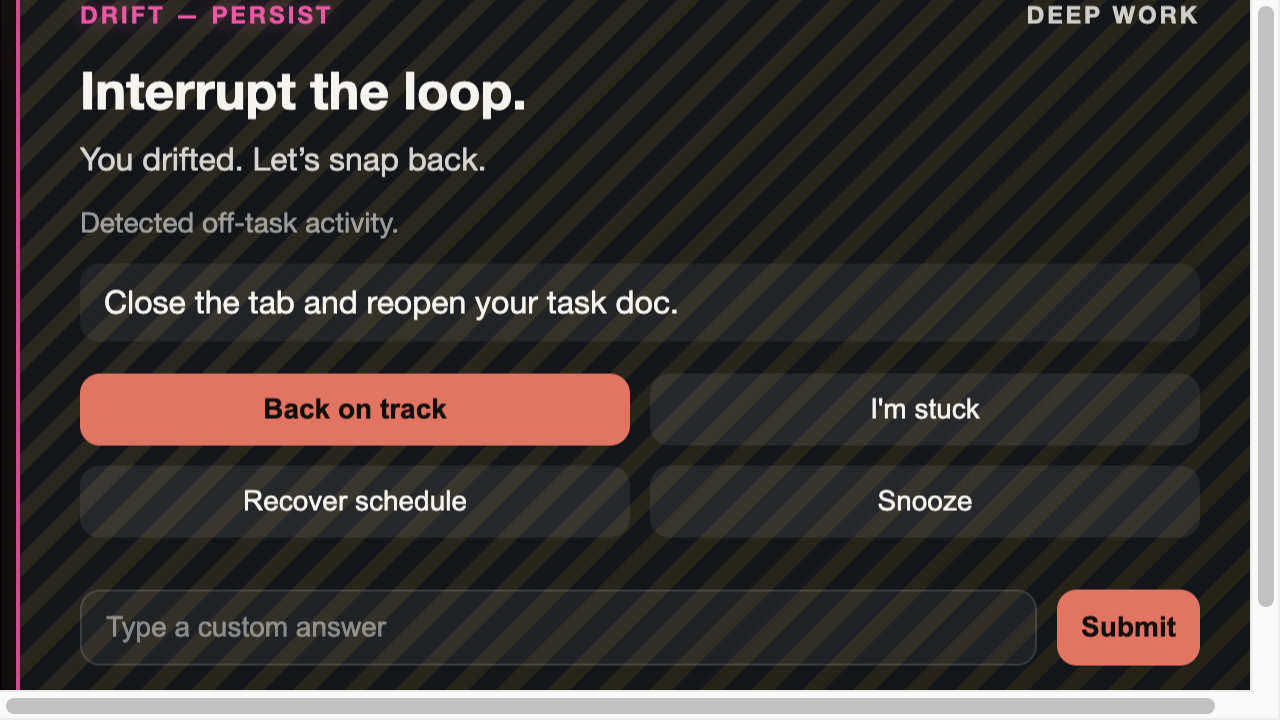
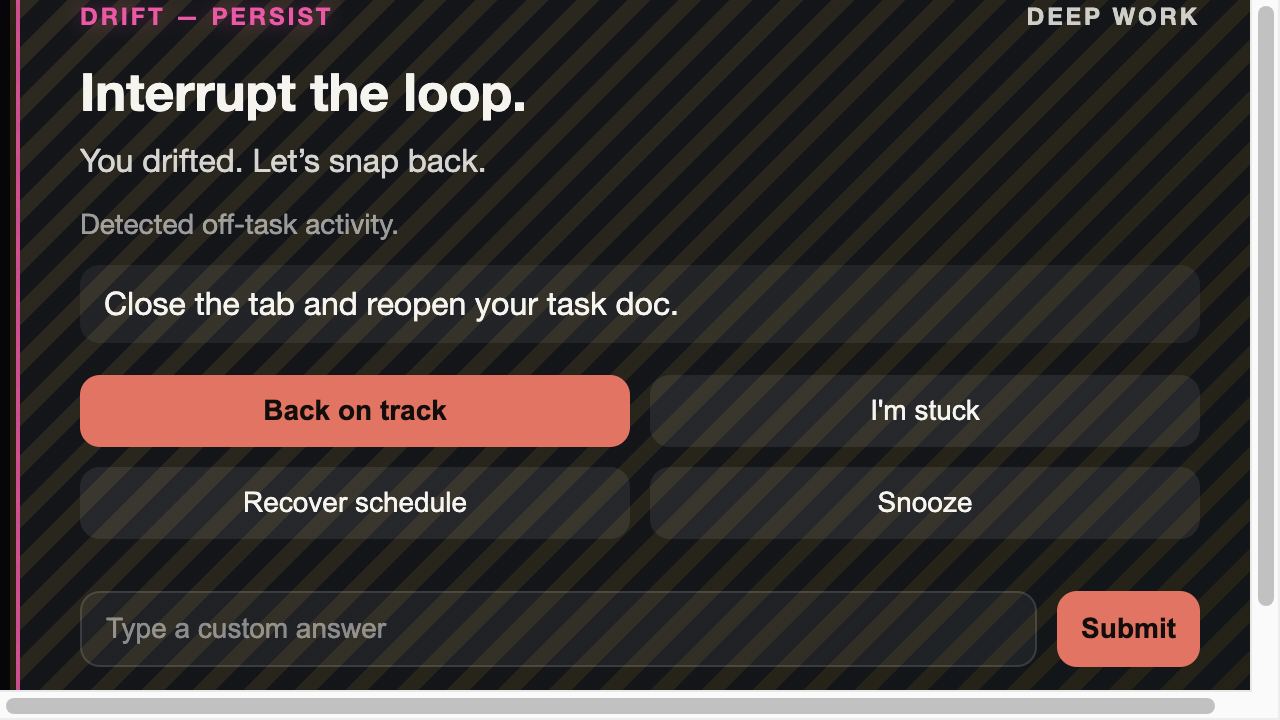
overlay: make screenshots deterministic by disabling animations

diff --git a/overlay/overlay.css b/overlay/overlay.css
@@ -244,6 +244,12 @@ button.primary:hover {
     linear-gradient(140deg, rgba(19, 22, 26, 0.92), rgba(10, 12, 15, 0.96));
 }
 
+/* Screenshot capture should be deterministic: disable animations when screenshot runner sets data-screenshot. */
+#overlay[data-screenshot="true"] .card {
+  animation: none !important;
+  transform: none !important;
+}
+
 #overlay[data-event-type="DRIFT_PERSIST"] .label {
   color: #ff49a7;
   text-shadow: 0 0 10px rgba(255, 73, 167, 0.35);

diff --git a/overlay/screenshot.js b/overlay/screenshot.js
@@ -59,11 +59,13 @@ async function main() {
 
   await capture("drift_start.png", {
     ...common,
+    screenshot: true,
     event_type: "DRIFT_START"
   });
 
   await capture("drift_persist.png", {
     ...common,
+    screenshot: true,
     event_type: "DRIFT_PERSIST",
     headline: "Interrupt the loop."
   });

diff --git a/overlay/overlay.js b/overlay/overlay.js
@@ -105,6 +105,7 @@ function showOverlay(payload) {
   }
 
   overlay.dataset.level = payload.level || "B";
+  overlay.dataset.screenshot = payload?.screenshot ? "true" : "";
   currentPayload = payload;
   shownAt = Date.now();
 }
